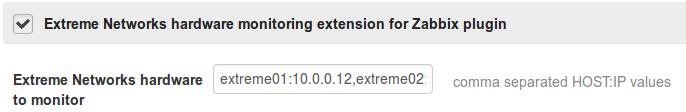
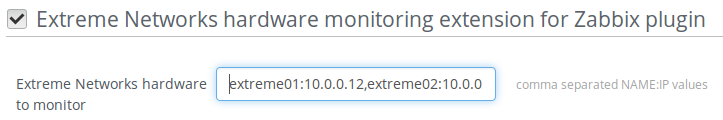
update documentation

diff --git a/doc/content/guide.rst b/doc/content/guide.rst
@@ -7,18 +7,20 @@ Environment configuration
 
 1. Create an environment. For more information about environment creation, see
    `Mirantis OpenStack User Guide <http://docs.mirantis.com/openstack/fuel
-   /fuel-6.1/user-guide.html#create-a-new-openstack-environment>`_.
+   /fuel-7.0/user-guide.html#create-a-new-openstack-environment>`_.
 2. Enable and configure Zabbix plugin for Fuel. For instructions, see Zabbix
    Plugin Guide in the `Fuel Plugins Catalog <https://www.mirantis.com
    /products/openstack-drivers-and-plugins/fuel-plugins/>`_.
 3. Enable and configure SNMP trap daemon for Zabbix plugin. For instructions,
    see Zabbix Plugin Guide in the `Fuel Plugins Catalog <https://www.mirantis
    .com/products/openstack-drivers-and-plugins/fuel-plugins/>`_.
-4. Open *Settings* tab of the Fuel web UI and scroll the page down. Select the
-   plugin checkbox and optionally fill in *Extreme Networks hardware to
-   monitor* parameter:
+4. Open *Settings* tab of the Fuel web UI and scroll the page down. On the left
+   choose *Extreme Networks hardware monitoring extension for Zabbix plugin*,
+   select the plugin checkbox and optionally fill in *Extreme Networks hardware
+   to monitor* parameter:
 
    .. image:: images/settings.png
+      :width: 100%
 
    When you add your hardware to the *Extreme Networks hardware to monitor*
    comma separated list, then the plugin will automatically configure
@@ -32,7 +34,7 @@ Environment configuration
 5. Adjust other environment settings to your requirements and deploy the
    environment. For more information, see
    `Mirantis OpenStack User Guide <http://docs.mirantis.com/openstack/fuel
-   /fuel-6.1/user-guide.html#create-a-new-openstack-environment>`_.
+   /fuel-7.0/user-guide.html#create-a-new-openstack-environment>`_.
 
 User Guide
 ==========
@@ -42,7 +44,10 @@ To test if everything is configured properly, follow these steps:
 1. Generate an example SNMP trap by running the following command from any
    node::
 
-       [root@node-46 ~]# snmptrap -v 1 -c <SNMP_community> <management_VIP_address> '.1.3.6.1.4.1.1916' <host_ip_address> 6 10 '10' .1.3.6.1.4.1.1916 s "null" .1.3.6.1.4.1.1916 s "null" .1.3.6.1.4.1.1916 s "2"
+       [root@node-46 ~]# snmptrap -v 1 -c <SNMP_community> \
+       <zabbix_VIP_address> '.1.3.6.1.4.1.1916' <host_ip_address> 6 10 '10' \
+       .1.3.6.1.4.1.1916 s "null" .1.3.6.1.4.1.1916 s "null" \
+       .1.3.6.1.4.1.1916 s "2"
 
    where:
 
@@ -51,16 +56,19 @@ To test if everything is configured properly, follow these steps:
        It is set in the SNMP trap daemon for Zabbix plugin Settings in Fuel UI:
 
    .. image:: images/snmptrapd_settings.png
+      :width: 100%
 
-   *<management_VIP_address>*
+   *<zabbix_VIP_address>*
 
        If you don’t know the address, run the following command on any node::
 
-           [root@node-46 ~]# grep management_vip /etc/astute.yaml
+           [root@node-46 ~]# grep -A2 ^zabbix_vip_management /etc/astute.yaml
 
        You should get the required VIP in the output::
 
-           management_vip: 192.168.0.1
+           zabbix_vip_management:
+             network_role: zabbix
+             ipaddr: 192.168.0.1
 
    *<host_IP_address>*
 
@@ -75,17 +83,20 @@ To test if everything is configured properly, follow these steps:
    openstack-drivers-and-plugins/fuel-plugins/>`_):
 
    .. image:: images/issues.png
+      :width: 100%
 
    When you click on a date in the *Last change* column of one of the issues,
    you will see the **Events** page with list of events with the same type:
 
    .. image:: images/events.png
+      :width: 100%
 
    To see a full description of the event, you have to click on event’s
    description and choose *History*, then you will see a **History** page with
    a full event description:
 
    .. image:: images/history.png
+      :width: 100%
 
 3. After clicking *Configuration* tab and selecting *Hosts* option, you will
    see a list of hosts with linked monitoring templates. There should be one
@@ -93,6 +104,7 @@ To test if everything is configured properly, follow these steps:
    plugin parameter:
 
    .. image:: images/hosts.png
+      :width: 100%
 
 Hardware setup
 ==============
@@ -101,18 +113,21 @@ You have to configure your hardware to enable SNMP traps sending. To do this,
 refer to your hardware’s manual. Generally, you have to set these two
 parameters on your hardware:
 
-1. SNMP manager - set to management VIP address of your environment
+1. SNMP manager - set to Zabbix VIP address of your environment
 
    If you don’t know the address, run the following command on any node::
 
-       [root@node-46 ~]# grep management_vip /etc/astute.yaml
+       [root@node-46 ~]# grep -A2 ^zabbix_vip_management /etc/astute.yaml
 
    You should get the required VIP in the output::
 
-       management_vip: 192.168.0.1
+       zabbix_vip_management:
+             network_role: zabbix
+             ipaddr: 192.168.0.1
 
 2. SNMP community - set the same value as in the *SNMP community* parameter
    from the SNMP trap daemon for Zabbix plugin settings:
 
    .. image:: images/snmptrapd_settings.png
+      :width: 100%
 

diff --git a/README.md b/README.md
@@ -16,8 +16,8 @@ Requirements
 
 | Requirement                        | Version/Comment |
 |:-----------------------------------|:----------------|
-| Mirantis OpenStack compatibility   | 6.1             |
-| Zabbix plugin for Fuel             | 1.0.0           |
+| Mirantis OpenStack compatibility   | 7.0             |
+| Zabbix plugin for Fuel             | 2.0.0           |
 | SNMP trap daemon for Zabbix plugin | 1.0.0           |
 
 Installation Guide
@@ -42,19 +42,21 @@ follow these steps:
     that. If you do not have the Fuel Master node yet, see
     [Quick Start Guide](https://software.mirantis.com/quick-start/) :
 
-        # scp zabbix_monitoring_extreme_networks-1.0-1.0.0-1.noarch.rpm root@<Fuel_Master_ip>:/tmp
+        # scp zabbix_monitoring_extreme_networks-1.0-1.0.0-1.noarch.rpm \
+          root@<Fuel_Master_ip>:/tmp
 
 5. Install the plugin:
 
         # cd /tmp
-        # fuel plugins --install zabbix_monitoring_extreme_networks-1.0-1.0.0-1.noarch.rpm
+        # fuel plugins --install \
+          zabbix_monitoring_extreme_networks-1.0-1.0.0-1.noarch.rpm
 
 6. Check if the plugin was installed successfully:
 
         # fuel plugins
         id | name                               | version | package_version
         ---|------------------------------------|---------|----------------
-        1  | zabbix_monitoring                  | 1.0.0   | 2.0.0
+        1  | zabbix_monitoring                  | 2.0.0   | 3.0.0
         2  | zabbix_snmptrapd                   | 1.0.0   | 2.0.0
         3  | zabbix_monitoring_extreme_networks | 1.0.0   | 2.0.0
 

diff --git a/doc/content/description.rst b/doc/content/description.rst
@@ -4,9 +4,9 @@ Extreme Networks hardware monitoring extension for Zabbix plugin
 
 Extreme Networks hardware monitoring extension plugin extends Zabbix plugin
 functionality by adding monitoring of incoming SNMP traps sent from Extreme
-Networks hardware via management network to management VIP address. For more
+Networks hardware via management network to Zabbix VIP address. For more
 information about networks, see the `Logical Networks <https://docs.mirantis
-.com/openstack/fuel/fuel-6.1/reference-architecture.html#logical-networks>`_
+.com/openstack/fuel/fuel-7.0/reference-architecture.html#logical-networks>`_
 section of MOS documentation. The plugin configures snmptt to parse and pass
 Extreme Networks specific traps to Zabbix. It also configures Zabbix by adding
 Template with appropriate items and triggers and by creating Hosts for each
@@ -18,8 +18,8 @@ Requirements
 ================================== ===============
 Requirement                        Version/Comment
 ================================== ===============
-Fuel                               6.1
-Zabbix plugin for Fuel             1.0.0
+Fuel                               7.0
+Zabbix plugin for Fuel             2.0.0
 SNMP trap daemon for Zabbix plugin 1.0.0
 ================================== ===============
 

diff --git a/doc/content/installation.rst b/doc/content/installation.rst
@@ -21,19 +21,21 @@ follow these steps:
    that. If you do not have the Fuel Master node yet, see `Quick Start Guide
    <https://software.mirantis.com/quick-start/>`_::
 
-    # scp zabbix_monitoring_extreme_networks-1.0-1.0.0-1.noarch.rpm root@<The_Fuel_Master_node_IP>:/tmp
+    # scp zabbix_monitoring_extreme_networks-1.0-1.0.0-1.noarch.rpm \
+      root@<The_Fuel_Master_node_IP>:/tmp
 
 5. Log into the Fuel Master node. Install the plugin::
 
     # cd /tmp
-    # fuel plugins --install zabbix_monitoring_extreme_networks-1.0-1.0.0-1.noarch.rpm
+    # fuel plugins --install \
+      zabbix_monitoring_extreme_networks-1.0-1.0.0-1.noarch.rpm
 
 6. Check if the plugin was installed successfully::
 
     # fuel plugins
     id | name                               | version  | package_version
     ---|------------------------------------|----------|----------------
-    1  | zabbix_monitoring                  | 1.0.0    | 2.0.0
+    1  | zabbix_monitoring                  | 2.0.0    | 3.0.0
     2  | zabbix_snmptrapd                   | 1.0.0    | 2.0.0
     3  | zabbix_monitoring_extreme_networks | 1.0.0    | 2.0.0
 
